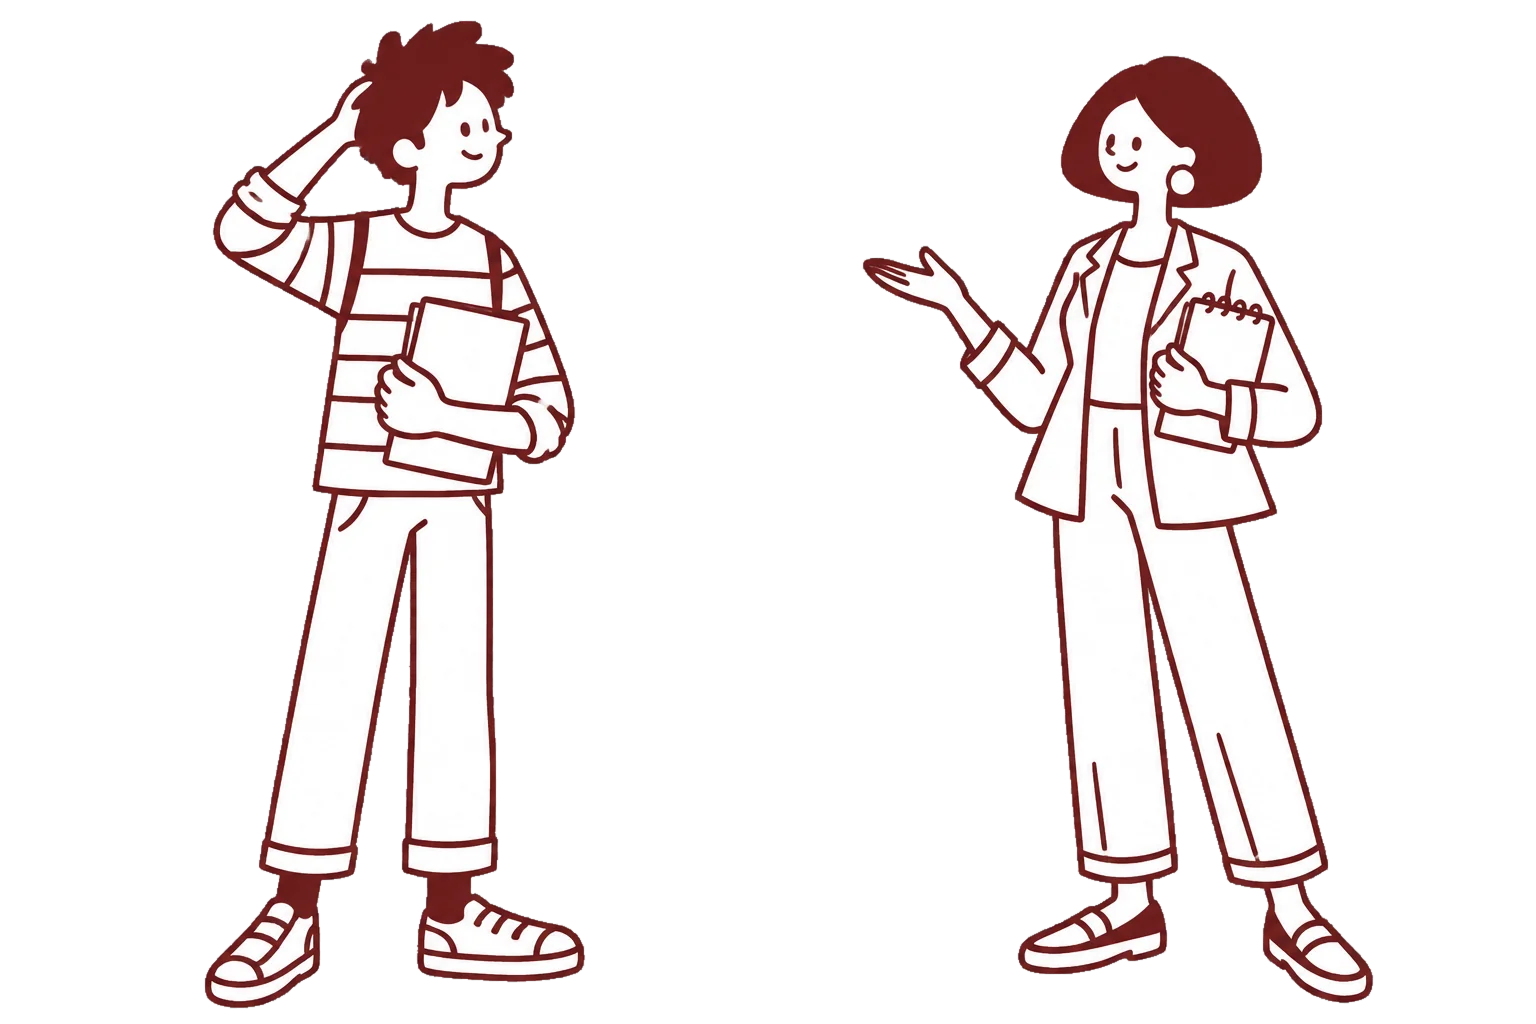
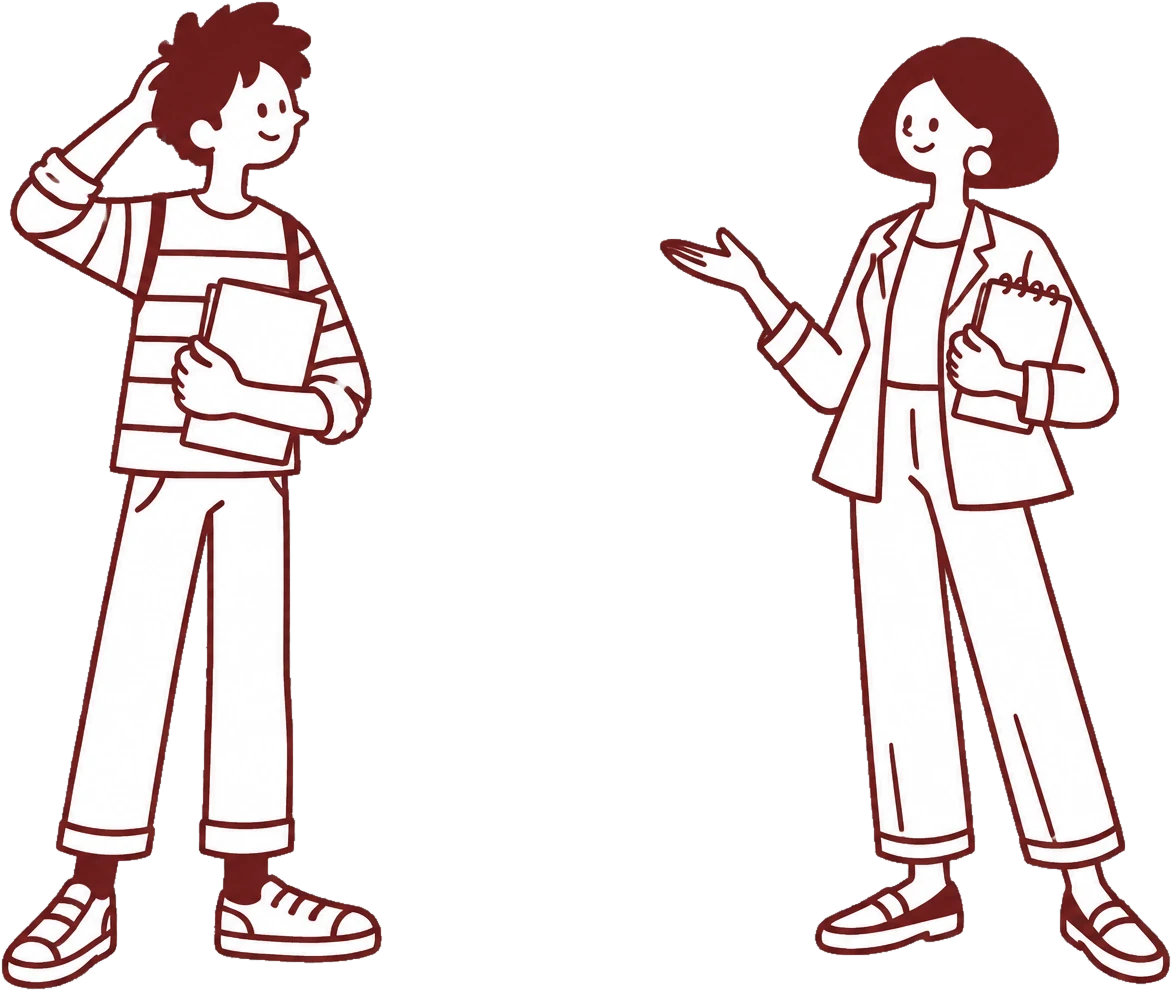
Paira growth: numbers folded into the cards; live-product block with the two characters

diff --git a/paira/index.html b/paira/index.html
@@ -879,25 +879,24 @@
         </div>
 
         <div class="paira-growth-grid">
-          <article><span>01</span><h3>Website &amp; sign-up</h3><p>Designed the beta sign-up and referral-code flow on paira.org, phone verification to TestFlight in two pages, and the “You are in!” install page.</p></article>
-          <article><span>02</span><h3>Launch &amp; events</h3><p>App Store launch creative, a July speaker series on breaking into Big Tech, and the referral tier system that ran from the waitlist onward.</p></article>
+          <article><span>01</span><h3>Website &amp; sign-up</h3><p>Designed the beta sign-up and referral-code flow on paira.org, phone verification to TestFlight in two pages, and the “You are in!” install page that brought in 50+ beta testers before launch.</p></article>
+          <article><span>02</span><h3>Launch &amp; events</h3><p>App Store launch creative, three summer speaker events on breaking into Big Tech, and the referral tier system that ran from the waitlist onward. Live since June 2026, v1.0.1 shipped in September.</p></article>
           <article><span>03</span><h3>AI-made films</h3><p>Concept films storyboarded and art-directed by me and built by an AI coding agent from our real product assets, like the iPhone Duo film above. Days from idea to cut.</p></article>
         </div>
 
-        <div class="paira-traction" aria-label="Verifiable numbers">
-          <div><strong>3</strong><span>speaker events, summer 2026</span></div><div><strong>v1.0.1</strong><span>App Store release, Sep 2026</span></div><div><strong>50+</strong><span>beta testers before launch</span></div>
-        </div>
-
         <div class="paira-live-product paira-live-cta">
-          <div>
+          <div class="paira-live-copy">
             <p class="project-meta">Live product</p>
             <h3>Try the full experience and witness our growth.</h3>
             <p>Paira is on the App Store and at paira.org. Post a request, or answer one.</p>
-          </div>
           <div class="paira-cta-row">
             <a class="paira-btn paira-btn-fill" href="https://apps.apple.com/us/app/paira-career-help/id6754662494" target="_blank" rel="noreferrer">Download on the App Store<span aria-hidden="true">↗</span></a>
             <a class="paira-btn" href="https://www.paira.org/" target="_blank" rel="noreferrer">Open paira.org<span aria-hidden="true">↗</span></a>
           </div>
+          </div>
+          <figure class="paira-live-art" aria-hidden="true">
+            <img src="../assets/img/paira/duo/characters-facing.webp" alt="" width="1172" height="991" loading="lazy" decoding="async" />
+          </figure>
         </div>
       </div>
     </div>
@@ -951,7 +950,7 @@
 <script>
   document.getElementById('year').textContent = new Date().getFullYear();
   const prefersReducedMotion = window.matchMedia('(prefers-reduced-motion: reduce)').matches;
-  const revealTargets = document.querySelectorAll('.merlin-report-lede, .merlin-hero-focus, .merlin-meta-frame, .merlin-project-detail-card, .case-cover-image, .paira-premise-line, .paira-framing-path, .paira-market-grid > *, .paira-research-step > *, .paira-pullquote-close, .paira-findings, .paira-pivot-block, .paira-surface, .paira-ds-tile, .paira-materials-col > *, .paira-stack > *, .paira-growth-grid, .paira-traction, .paira-reflection, .paira-live-product');
+  const revealTargets = document.querySelectorAll('.merlin-report-lede, .merlin-hero-focus, .merlin-meta-frame, .merlin-project-detail-card, .case-cover-image, .paira-premise-line, .paira-framing-path, .paira-market-grid > *, .paira-research-step > *, .paira-pullquote-close, .paira-findings, .paira-pivot-block, .paira-surface, .paira-ds-tile, .paira-materials-col > *, .paira-stack > *, .paira-growth-grid, .paira-reflection, .paira-live-product');
   revealTargets.forEach((node, index) => { node.classList.add('merlin-reveal'); node.style.setProperty('--merlin-reveal-index', String(index % 4)); });
   if (prefersReducedMotion || !('IntersectionObserver' in window)) {
     revealTargets.forEach((node) => node.classList.add('is-visible'));

diff --git a/assets/paira-case.css b/assets/paira-case.css
@@ -1714,7 +1714,7 @@
 .paira-case-page .paira-growth-grid { margin-top: var(--sp-tight); }
 .paira-case-page .paira-film { margin-top: var(--sp-stage); }
 .paira-case-page .paira-traction { margin-top: var(--sp-rest); }
-.paira-case-page .paira-live-cta { margin-top: var(--sp-block); grid-template-columns: 1fr; gap: 1.2rem; max-width: 46rem; }
+.paira-case-page .paira-live-cta { margin-top: var(--sp-stage); grid-template-columns: minmax(0, 1.15fr) minmax(14rem, 0.85fr); gap: clamp(1.5rem, 4vw, 3rem); align-items: end; max-width: none; padding-top: var(--sp-block); border-top: 1px solid var(--case-line); }
 
 /* Act 5 · Reflection attaches to Growth */
 .paira-case-page .paira-reflection { margin-top: var(--sp-tight); }
@@ -2120,3 +2120,10 @@
 .paira-film-tile-media video { display: block; width: 100%; height: auto; background: #000; }
 .paira-film-tile:hover .paira-film-tile-play { opacity: 1; }
 .paira-film-tile-play { opacity: 0.85; transition: opacity 200ms ease; }
+
+/* live product: copy + buttons on the left, her two characters on the right */
+.paira-live-copy { display: grid; gap: 0.6rem; max-width: 40rem; }
+.paira-live-copy .paira-cta-row { margin-top: 0.8rem; }
+.paira-live-art { margin: 0; justify-self: center; width: min(100%, 22rem); }
+.paira-live-art img { display: block; width: 100%; height: auto; filter: drop-shadow(0 14px 24px rgba(19, 19, 19, 0.12)); }
+@media (max-width: 760px) { .paira-live-art { width: min(100%, 16rem); } }
